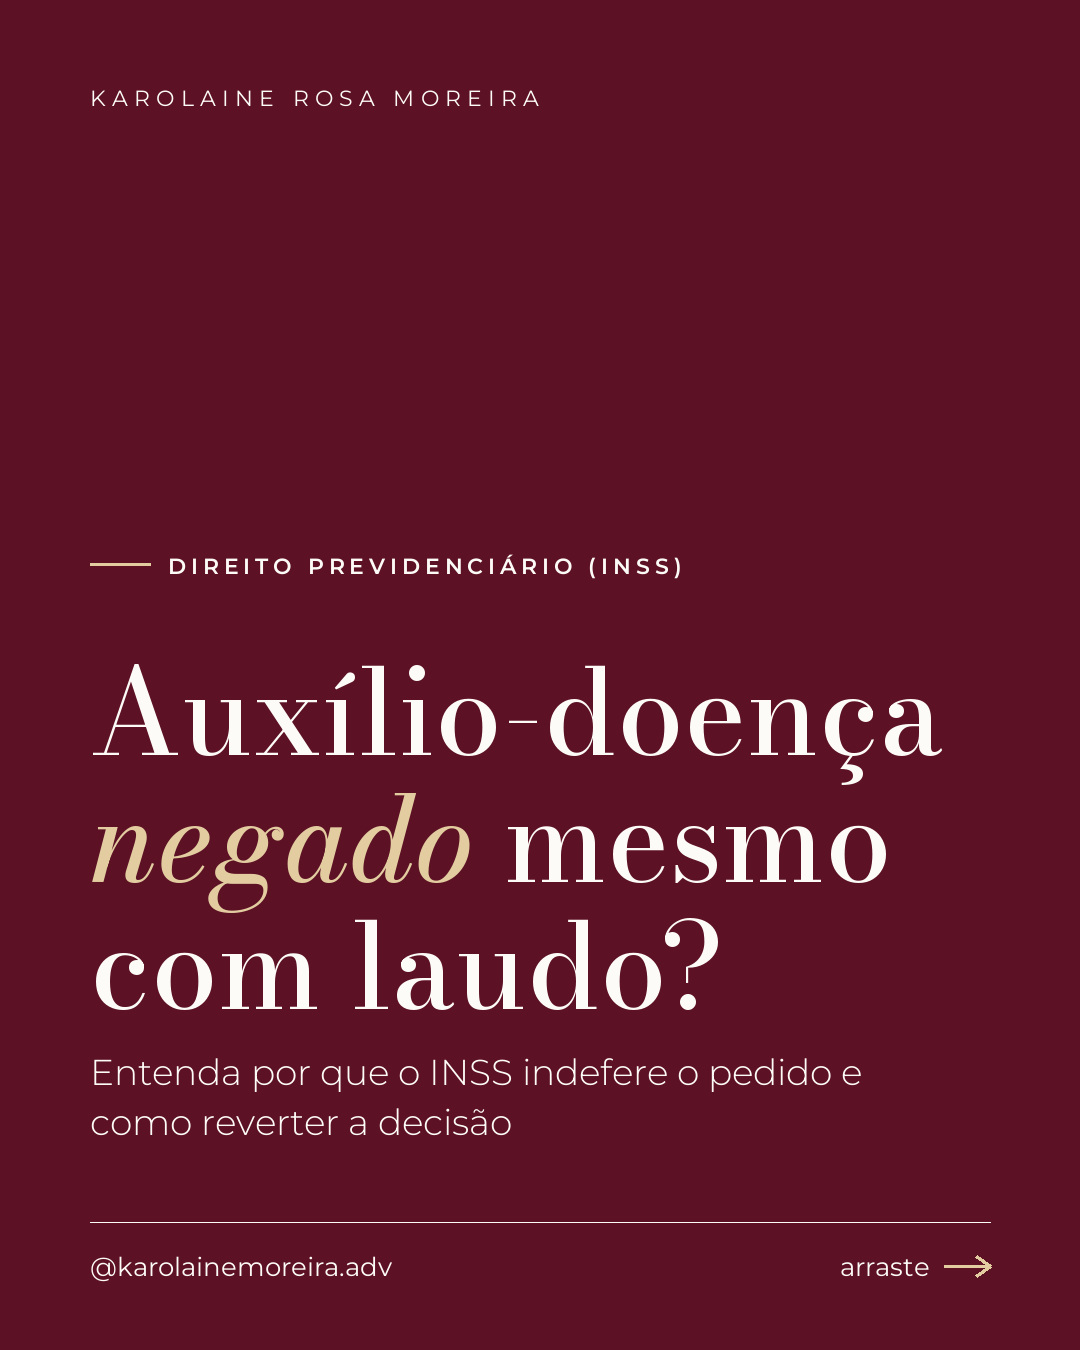
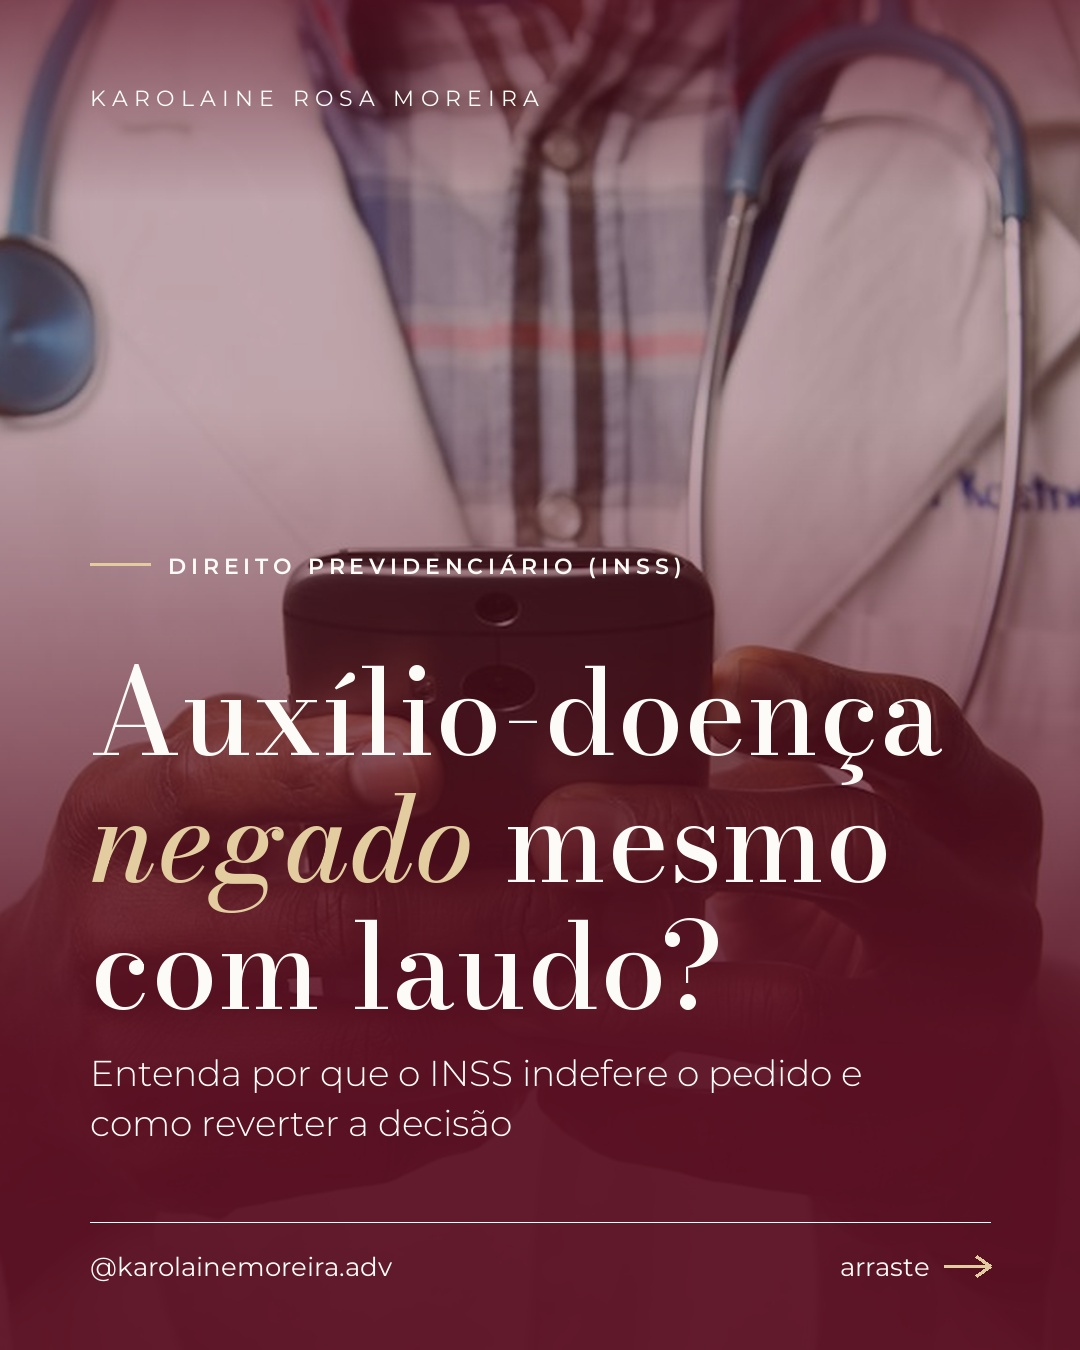
feat: atualizar carrossel de 12/11 com fotos profissionais

diff --git a/scratch/gerar_exemplo_visual.py b/scratch/gerar_exemplo_visual.py
@@ -1,0 +1,156 @@
+import io
+import json
+import sys
+from pathlib import Path
+
+sys.path.insert(0, str(Path(".").resolve()))
+
+import requests
+from PIL import Image, ImageDraw, ImageFilter, ImageOps
+
+from agente.config import carregar_perfil, PASTA_IMAGENS
+from agente.imagem import (
+    Desenhista, fonte, titulo_ajustado, paragrafo_ajustado,
+    desenhar_titulo, texto_espacado, seta, LARGURA, ALTURA, MARGEM, UTIL
+)
+
+perfil = carregar_perfil()
+d = Desenhista(perfil)
+
+post_path = Path("posts/fila/2026-11-12_auxilio-doenca-negado-inss-laudo-medico.json")
+post = json.loads(post_path.read_text(encoding="utf-8"))
+
+# Banco curado de fotos médicas do Unsplash (100% royalty-free, alta resolução)
+FOTOS_MEDICAS = [
+    "https://images.unsplash.com/photo-1576091160399-112ba8d25d1d?w=1080&q=80", # Capa: Estetoscópio e prontuário na mesa
+    "https://images.unsplash.com/photo-1666214280557-f1b5022eb634?w=1080&q=80", # Slide 1: Médico profissional com estetoscópio
+    "https://images.unsplash.com/photo-1584515979956-d9f6e5d09982?w=1080&q=80", # Slide 2: Prontuário, exames e caneta
+    "https://images.unsplash.com/photo-1584467735815-f778f274e296?w=1080&q=80", # Slide 3: Médico e paciente em avaliação
+    "https://images.unsplash.com/photo-1505751172876-fa1923c5c528?w=1080&q=80", # Slide 4: Médico analisando documentos
+    "https://images.unsplash.com/photo-1589829545856-d10d557cf95f?w=1080&q=80", # Encerramento: Balança da justiça / livros
+]
+
+headers = {"User-Agent": "Mozilla/5.0"}
+
+def baixar_foto(url):
+    r = requests.get(url, headers=headers, timeout=10)
+    return Image.open(io.BytesIO(r.content)).convert("RGB")
+
+print("1. Baixando fotos...")
+fotos_pil = [baixar_foto(u) for u in FOTOS_MEDICAS]
+print(f"Baixadas {len(fotos_pil)} fotos com sucesso!")
+
+# Renderizar Slide 1 (Capa com foto)
+print("2. Renderizando Capa com foto...")
+capa_img = d._fundo_foto(fotos_pil[0])
+draw_capa = ImageDraw.Draw(capa_img)
+d._assinatura(draw_capa, d.clara)
+
+# Título da capa
+base_y = ALTURA - 190
+sub_f, sub_linhas = paragrafo_ajustado(post["subtitulo"], "leve", UTIL - 60, 130, 36, 28, 1.4)
+base_y -= int(len(sub_linhas) * sub_f.size * 1.4) + 56
+tam, linhas, altura = titulo_ajustado(post["titulo"], UTIL, 560, 118, 70)
+y_titulo = base_y - altura
+
+draw_capa.line((MARGEM, y_titulo - 58, MARGEM + 60, y_titulo - 58), fill=d.destaque_clara, width=3)
+texto_espacado(draw_capa, (MARGEM + 78, y_titulo - 70), post["area"].upper(), fonte("negrito", 22), d.clara, 0.22)
+desenhar_titulo(draw_capa, MARGEM, y_titulo, tam, linhas, d.clara, d.destaque_clara)
+
+y_sub = y_titulo + altura + 56 - int(tam * 0.08)
+for linha in sub_linhas:
+    draw_capa.text((MARGEM, y_sub), linha, font=sub_f, fill=d.clara)
+    y_sub += int(sub_f.size * 1.4)
+
+draw_capa.line((MARGEM, ALTURA - 128, LARGURA - MARGEM, ALTURA - 128), fill=d.clara, width=1)
+draw_capa.text((MARGEM, ALTURA - 100), d.adv["instagram"], font=fonte("texto", 26), fill=d.clara)
+f_arraste = fonte("texto", 26)
+larg = f_arraste.getlength("arraste")
+draw_capa.text((LARGURA - MARGEM - 60 - larg, ALTURA - 100), "arraste", font=f_arraste, fill=d.clara)
+seta(draw_capa, LARGURA - MARGEM - 46, ALTURA - 84, d.destaque_clara)
+
+# Renderizar Slides Internos (2 a 5) com foto elegante
+total_slides = 6
+slides_internos = []
+
+for idx, slide in enumerate(post["slides"]):
+    pagina = idx + 2
+    numero = idx + 1
+    foto = fotos_pil[numero]
+    
+    img = Image.new("RGB", (LARGURA, ALTURA), d.clara)
+    draw = ImageDraw.Draw(img)
+    
+    # Topo: Área e Paginação
+    texto_espacado(draw, (MARGEM, 84), post["area"].upper(), fonte("negrito", 20), d.destaque, 0.24)
+    texto_espacado(draw, (LARGURA - MARGEM, 84), f"{pagina:02d} / {total_slides:02d}", fonte("texto", 20), d.destaque, 0.2, ancora_direita=True)
+    
+    # Foto com cantos arredondados (visual card moderno)
+    larg_foto = UTIL
+    alt_foto = 440
+    y_foto = 140
+    raio = 24
+    
+    foto_fit = ImageOps.fit(foto, (larg_foto, alt_foto), method=Image.LANCZOS)
+    mascara = Image.new("L", (larg_foto, alt_foto), 0)
+    draw_mask = ImageDraw.Draw(mascara)
+    draw_mask.rounded_rectangle((0, 0, larg_foto, alt_foto), radius=raio, fill=255)
+    img.paste(foto_fit, (MARGEM, y_foto), mascara)
+    
+    # Borda sutil dourada/areia
+    draw.rounded_rectangle((MARGEM, y_foto, MARGEM + larg_foto, y_foto + alt_foto), radius=raio, outline=d.destaque, width=2)
+    
+    # Bloco textual
+    y_bloco = y_foto + alt_foto + 40
+    draw.text((MARGEM, y_bloco), f"{numero:02d}", font=fonte("titulo", 72), fill=d.destaque)
+    y_titulo = y_bloco + 75
+    
+    tam, linhas, alt_titulo = titulo_ajustado(slide["titulo"], UTIL, 160, 64, 46)
+    y_fio = desenhar_titulo(draw, MARGEM, y_titulo, tam, linhas, d.texto_escuro, d.destaque) + 20
+    draw.line((MARGEM, y_fio, MARGEM + 90, y_fio), fill=d.destaque, width=3)
+    
+    y_txt = y_fio + 30
+    f_txt, linhas_txt = paragrafo_ajustado(slide["texto"], "texto", UTIL, 320, 34, 26, 1.45)
+    for linha in linhas_txt:
+        draw.text((MARGEM, y_txt), linha, font=f_txt, fill=d.texto_escuro)
+        y_txt += int(f_txt.size * 1.45)
+        
+    # Rodapé institucional
+    draw.line((MARGEM, ALTURA - 128, LARGURA - MARGEM, ALTURA - 128), fill=d.areia, width=2)
+    draw.text((MARGEM, ALTURA - 100), f"{d.adv['nome']}  |  {d.adv['oab']}", font=fonte("texto", 24), fill=d.texto_escuro)
+    
+    slides_internos.append(img)
+
+# Slide 6 (Encerramento com foto de fundo e filtro bordô)
+foto_enc = fotos_pil[5]
+enc_img = d._fundo_foto(foto_enc)
+draw_enc = ImageDraw.Draw(enc_img)
+d._assinatura(draw_enc, d.destaque_clara)
+
+chamada = post.get("chamada_final") or "Você já passou por perícia médica do INSS?"
+tam, linhas, altura = titulo_ajustado(f"*{chamada}*", UTIL, 420, 90, 56, 1.12)
+y = desenhar_titulo(draw_enc, MARGEM, 330, tam, linhas, d.clara, d.clara, 1.12) + 70
+draw_enc.line((MARGEM, y, MARGEM + 120, y), fill=d.destaque_clara, width=3)
+y += 60
+f_inst = fonte("leve", 34)
+for linha in ("Salve para consultar depois.", "Envie para quem precisa saber disso.", "Conte sua experiência nos comentários."):
+    draw_enc.text((MARGEM, y), linha, font=f_inst, fill=d.clara)
+    y += 60
+
+draw_enc.line((MARGEM, ALTURA - 128, LARGURA - MARGEM, ALTURA - 128), fill=d.destaque, width=1)
+draw_enc.text((MARGEM, ALTURA - 100), f"Siga {d.adv['instagram']}", font=fonte("negrito", 26), fill=d.clara)
+texto_espacado(draw_enc, (LARGURA - MARGEM, ALTURA - 96), f"{total_slides:02d} / {total_slides:02d}", fonte("texto", 20), d.destaque_clara, 0.2, ancora_direita=True)
+
+# Salvar todos os 6 slides
+todos_slides = [capa_img] + slides_internos + [enc_img]
+pasta_out = Path("posts/imagens")
+for i, img in enumerate(todos_slides, 1):
+    caminho = pasta_out / f"2026-11-12_auxilio-doenca-negado-inss-laudo-medico_{i:02d}.jpg"
+    img.save(caminho, "JPEG", quality=95)
+    print(f"Salvo: {caminho}")
+
+# Sincronizar com o Google Drive
+from agente.imagem import _copiar_para_google_drive
+caminhos_finais = [pasta_out / f"2026-11-12_auxilio-doenca-negado-inss-laudo-medico_{i:02d}.jpg" for i in range(1, 7)]
+_copiar_para_google_drive(caminhos_finais, post)
+print("Todas as 6 imagens com fotos profissionais foram sincronizadas no Google Drive!")
